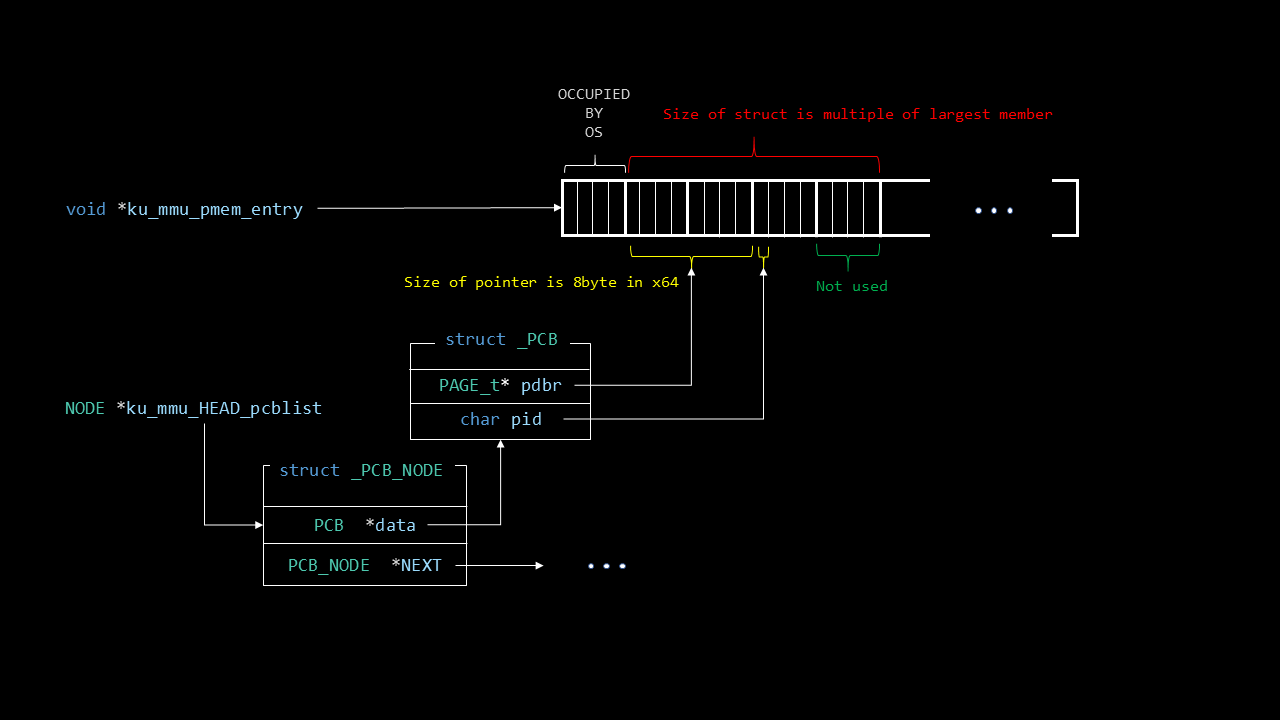
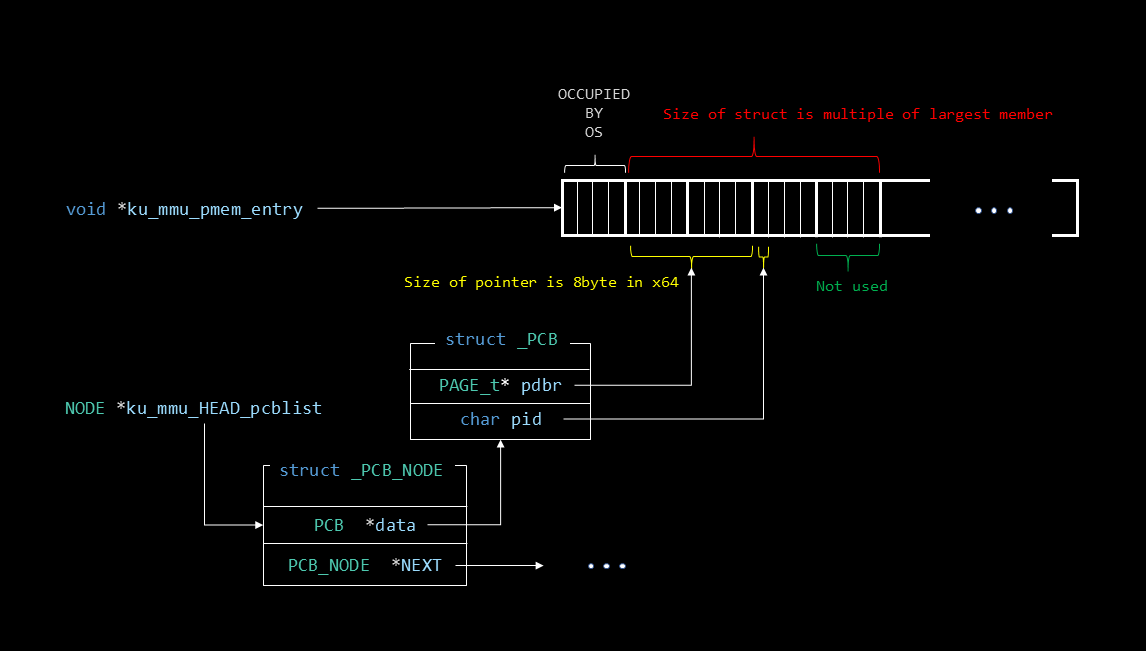
Update Readme with resized images

diff --git a/README.md b/README.md
@@ -1,3 +1,70 @@
 # KU_MMU
-Implementation of Memory Management Unit at application level    
+
+Implementation of Memory Management Unit at application level  
 Assignment in Konkuk Univ. Operating System class by Prof. Hyun-Wook Jin
+
+---
+
+</br>
+   
+## Introduction
+
+Due to the requirements of assignment, every variables and functions are written in single file: [ku_mmu.h](./ku_mmu.h). Which is a huge violation of modern software architecture :(
+
+</br>
+
+Application-level implementation of Memory Management Unit.
+
+Converts given virtual address with PID to physical address in [input.txt](./input.txt)
+
+- **8-bit** addressing: **256B** of address space
+- Page size: 4B
+- PDE/PTE: 1B
+
+---
+
+<br/>
+
+## Data Structures
+
+### PCB List
+
+![pcb_list](./images/pcb_list.jpg)
+
+<br/>
+
+### Memory Free list
+
+![pmem_list](./images/pmem_list.jpg)
+
+![swap_list](./images/swap_list.jpg)
+
+### Init status
+
+![init](./images/bitPacking_in_initialization.PNG)
+
+<br/>
+
+### Mapped memory
+
+![mapping](./images/mapping.jpg)
+
+</br>   
+   
+### Swap out   
+  
+- Swap space has free memory (default)
+
+![default_swap](./images/default_swap.PNG)
+
+- Swap space is full
+
+![swap_space_is_full](./images/swap_when_swapSpace_is_full.PNG)
+
+---
+
+</br>
+
+## Run
+
+`$ ku_cpu <input_file> <pmem_size> <swap_size>`
